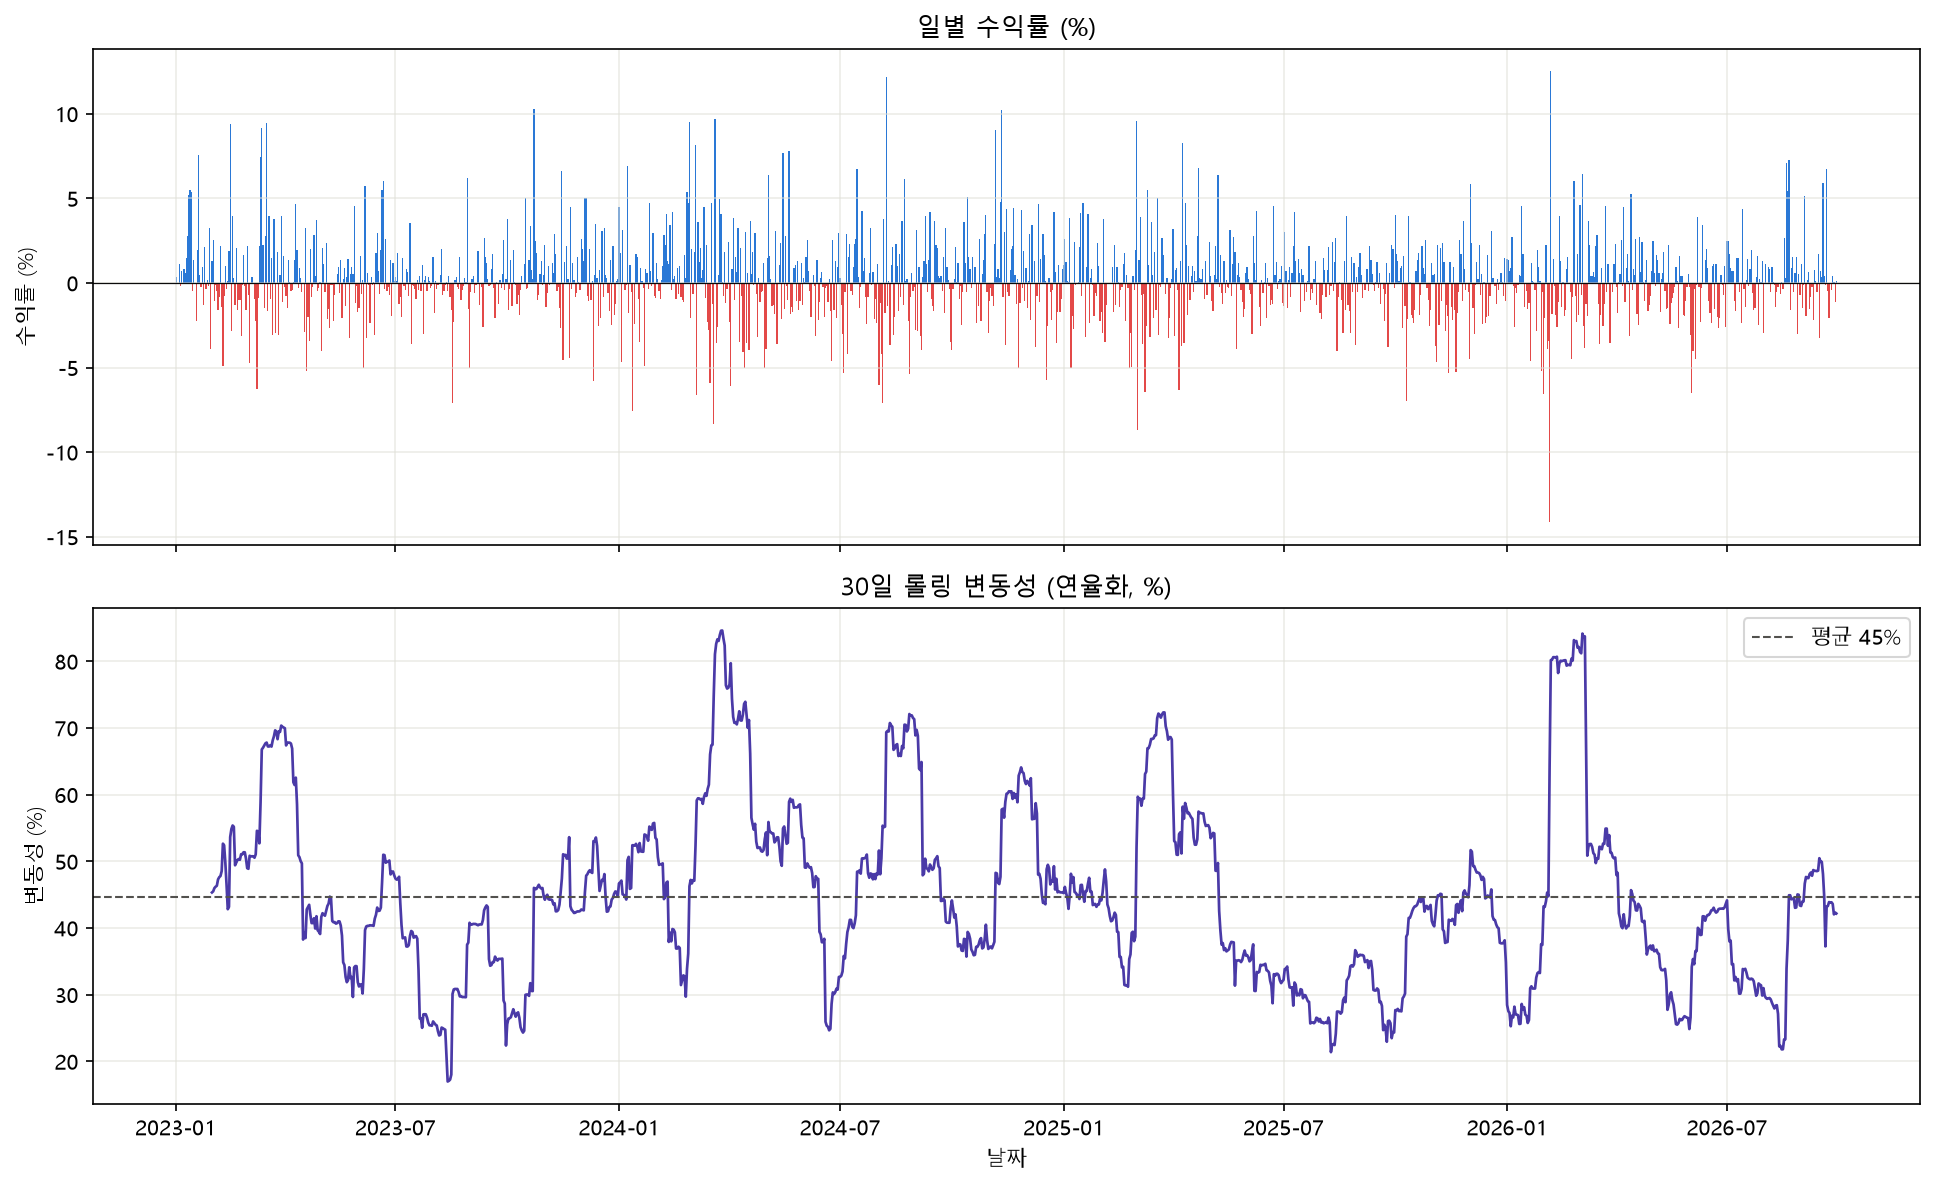
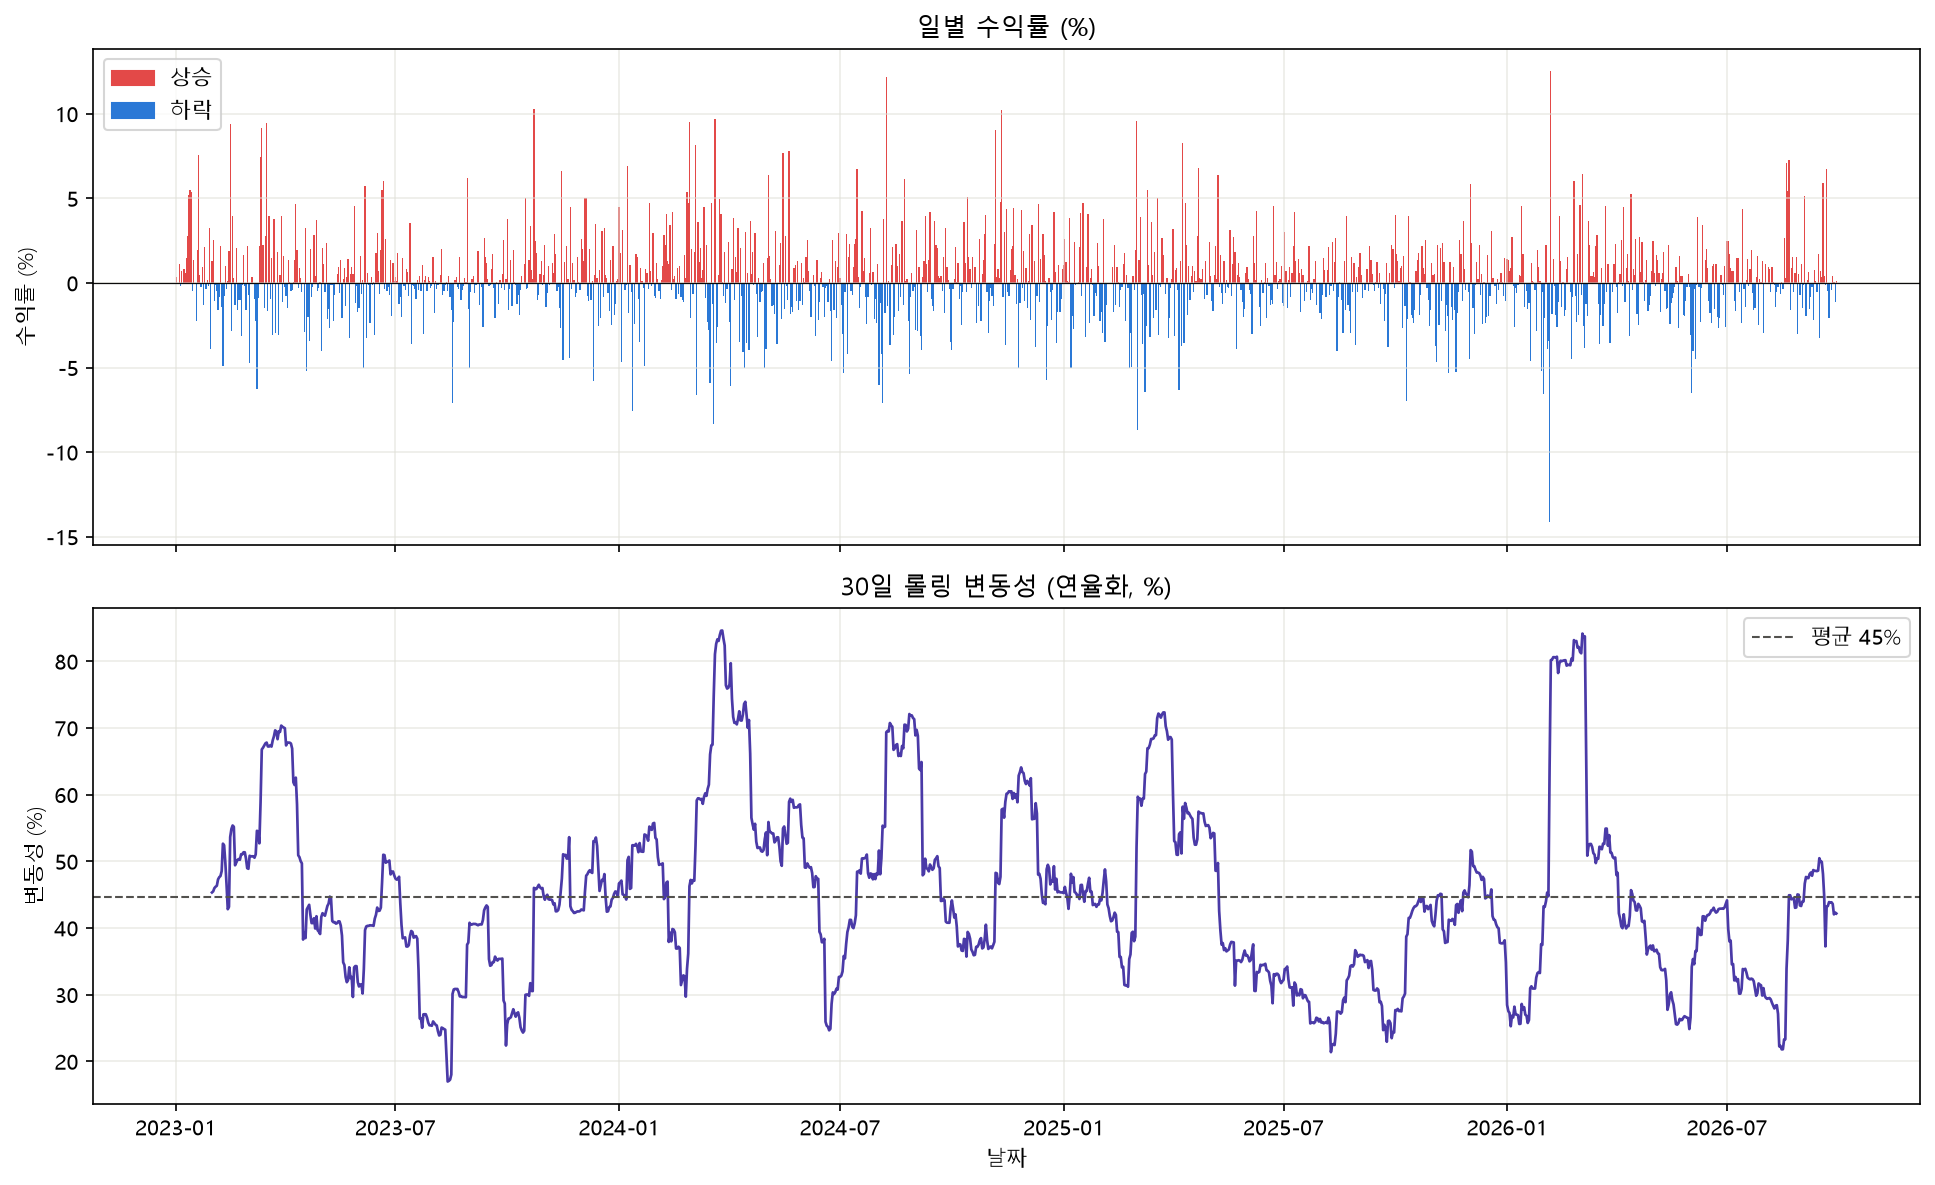
fix: 상승/하락 색상을 한국 금융 관행에 맞게 교정하고 폰트 설정을 호출 시점으로 이동
- 수익률 막대·히트맵 색상을 상승=red, 하락=blue로 교정 (한국/일본/중국
  관행은 미국과 반대)
- 수익률 막대 그래프에 상승/하락 범례 추가
- setup_korean_font()를 모듈 import 시점이 아닌 각 plot_* 함수 호출
  시점에 실행하도록 변경해 import의 전역 부수효과 제거

Changed region(s): [[0.093, 0.1561, 0.9612, 0.3122], [0.031, 0.0312, 0.124, 0.1249]]

diff --git a/plots.py b/plots.py
@@ -10,8 +10,9 @@ matplotlib 정적 PNG 보고서에 맞게 다음 역할로 재배정했다:
   기준 인접 대비가 부족해 red 대신 aqua를 사용)
 - 발산형(수익률 양/음): blue #2a78d6 <-> red #e34948, 중립 회색 #f0efec
   (원안의 녹색/빨강 조합은 색각 이상 시뮬레이션에서 CVD 대비 4.1로 실패하여
-  팔레트의 발산형 쌍으로 교체. 음수=red, 양수=blue로 통일해 수익률 막대
-  그래프와 히트맵에서 같은 규칙을 쓴다)
+  팔레트의 발산형 쌍으로 교체. 방향은 한국 금융 관행(상승=빨강, 하락=파랑)을
+  따른다: 양수(상승)=red, 음수(하락)=blue로 통일해 수익률 막대 그래프와
+  히트맵에서 같은 규칙을 쓴다)
 - 중립 톤: muted #898781(보조 선/격자), primary ink #0b0b0b(기준선·실제값)
 """
 
@@ -41,23 +42,22 @@ _SECONDARY_INK = "#52514e"
 _PRIMARY_INK = "#0b0b0b"
 _GRIDLINE = "#e1e0d9"
 
-# 수익률 발산형 컬러맵: 음수=red, 0=중립 회색, 양수=blue
+# 수익률 발산형 컬러맵: 음수(하락)=blue, 0=중립 회색, 양수(상승)=red
+# (한국 금융 관행: 상승=빨강, 하락=파랑 — 미국 관행과 반대이므로 주의)
 _DIVERGING_CMAP = LinearSegmentedColormap.from_list(
-    "btc_diverging", [_RED, _NEUTRAL_GRAY, _BLUE]
+    "btc_diverging", [_BLUE, _NEUTRAL_GRAY, _RED]
 )
 
 
 def setup_korean_font() -> None:
-    """한글 레이블이 깨지지 않도록 폰트를 설정한다."""
+    """한글 레이블이 깨지지 않도록 폰트를 설정한다.
+
+    각 plot_* 함수가 그리기 직전에 이 함수를 호출하므로(멱등), 호출자가
+    직접 부르는 것을 잊어도 깨진 글자(□□□)가 나오지 않는다. import 시점에는
+    아무 전역 상태도 건드리지 않는다 — 부수효과는 실제로 그릴 때만 발생한다.
+    """
     matplotlib.rcParams["font.family"] = KOREAN_FONT
     matplotlib.rcParams["axes.unicode_minus"] = False  # 음수 기호 깨짐 방지
-
-
-# 모듈을 import하는 시점에 한 번 적용해 둔다. 이 모듈의 모든 그리기 함수는
-# 한글 레이블을 쓰므로, 호출자가 setup_korean_font()를 직접 부르는 것을
-# 잊어도(Step 5 생성 스크립트는 명시적으로 호출한다) 깨진 글자(□□□)가
-# 나오지 않도록 안전장치로 둔다. 멱등이므로 다시 호출해도 무해하다.
-setup_korean_font()
 
 
 def _save(fig, out_path: str | Path) -> Path:
@@ -75,6 +75,7 @@ def plot_price_trend(df: pd.DataFrame, out_path: str | Path) -> Path:
     로그축을 같이 두는 이유: 기간 중 가격이 수 배 변하면 선형축에서는
     초기 구간의 변화가 눌려 '평평하게' 보인다.
     """
+    setup_korean_font()
     fig, axes = plt.subplots(2, 1, figsize=(13, 9), sharex=True)
 
     for ax, scale, title in (
@@ -97,12 +98,16 @@ def plot_price_trend(df: pd.DataFrame, out_path: str | Path) -> Path:
 
 def plot_returns_volatility(df: pd.DataFrame, out_path: str | Path) -> Path:
     """일별 수익률과 30일 롤링 변동성."""
+    setup_korean_font()
     fig, axes = plt.subplots(2, 1, figsize=(13, 8), sharex=True)
 
     returns_pct = df["daily_return"] * 100
-    colors = np.where(returns_pct >= 0, _BLUE, _RED)
+    colors = np.where(returns_pct >= 0, _RED, _BLUE)
     axes[0].bar(df.index, returns_pct, color=colors, width=1.0)
     axes[0].axhline(0, color=_PRIMARY_INK, linewidth=0.6)
+    up_patch = plt.Rectangle((0, 0), 1, 1, color=_RED, label="상승")
+    down_patch = plt.Rectangle((0, 0), 1, 1, color=_BLUE, label="하락")
+    axes[0].legend(handles=[up_patch, down_patch], loc="upper left")
     axes[0].set_title("일별 수익률 (%)")
     axes[0].set_ylabel("수익률 (%)")
     axes[0].grid(alpha=0.6, color=_GRIDLINE, linewidth=0.8)
@@ -125,8 +130,10 @@ def plot_monthly_heatmap(pivot: pd.DataFrame, out_path: str | Path) -> Path:
 
     0을 중립 회색으로 두는 발산형(blue<->red) 컬러맵을 쓴다. 양수/음수를
     즉시 구분하기 위함이며, 일별 수익률 막대 그래프와 동일한 색 규칙
-    (음수=red, 양수=blue)을 사용해 보고서 전체에서 일관성을 유지한다.
+    (양수/상승=red, 음수/하락=blue — 한국 금융 관행)을 사용해 보고서
+    전체에서 일관성을 유지한다.
     """
+    setup_korean_font()
     values = pivot.to_numpy(dtype=float) * 100
     limit = float(np.nanmax(np.abs(values))) if np.isfinite(values).any() else 1.0
 
@@ -157,6 +164,7 @@ def plot_weekday_box(df: pd.DataFrame, out_path: str | Path) -> Path:
 
     평균만 보면 소수 극단값에 끌려가므로 분포 전체를 보여준다.
     """
+    setup_korean_font()
     returns = df["daily_return"].dropna() * 100
     groups = [returns[returns.index.dayofweek == i].values for i in range(7)]
 
@@ -184,6 +192,7 @@ def plot_weekday_box(df: pd.DataFrame, out_path: str | Path) -> Path:
 def plot_baseline_forecast(predictions: pd.DataFrame, scores: pd.DataFrame,
                            out_path: str | Path) -> Path:
     """홀드아웃 구간의 실제값과 베이스라인 예측 비교."""
+    setup_korean_font()
     fig, ax = plt.subplots(figsize=(12, 6))
 
     ax.plot(predictions.index, predictions["actual"], color=_PRIMARY_INK, linewidth=2.0,
